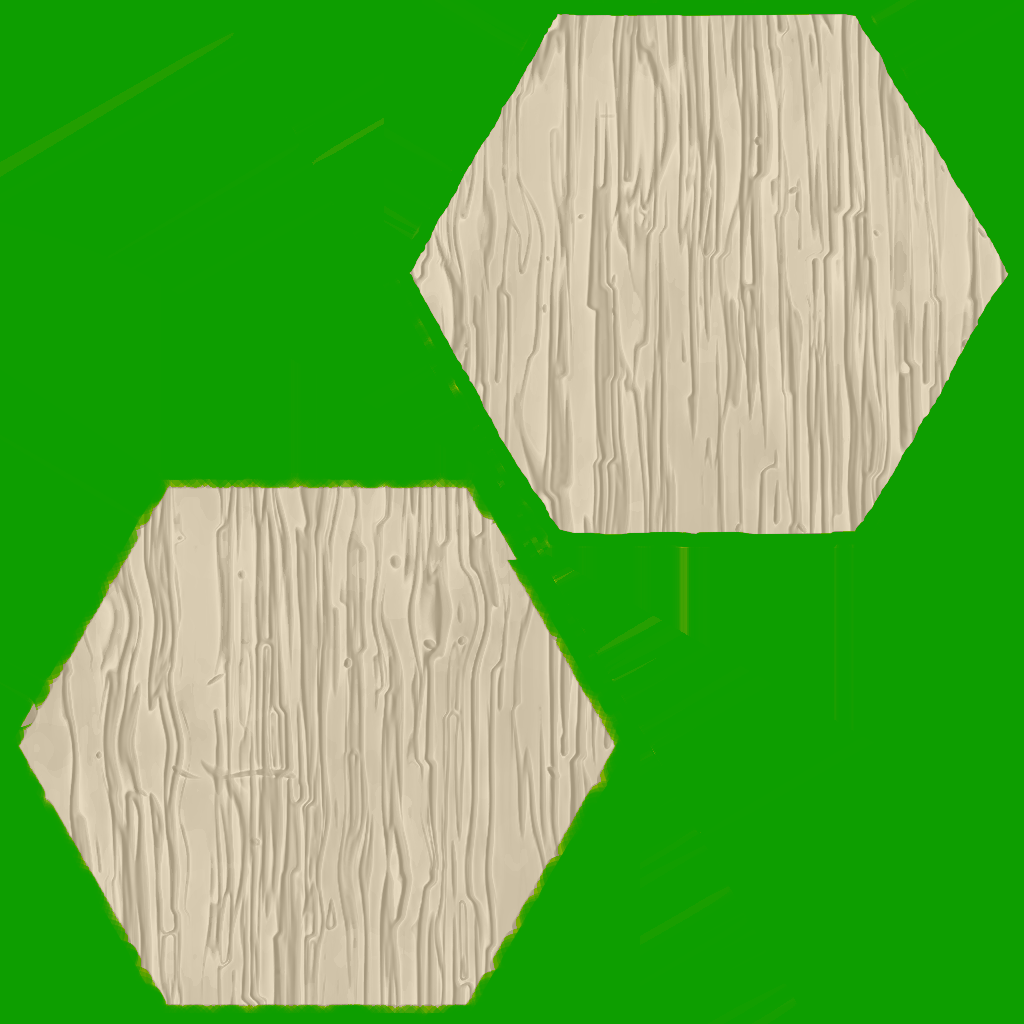
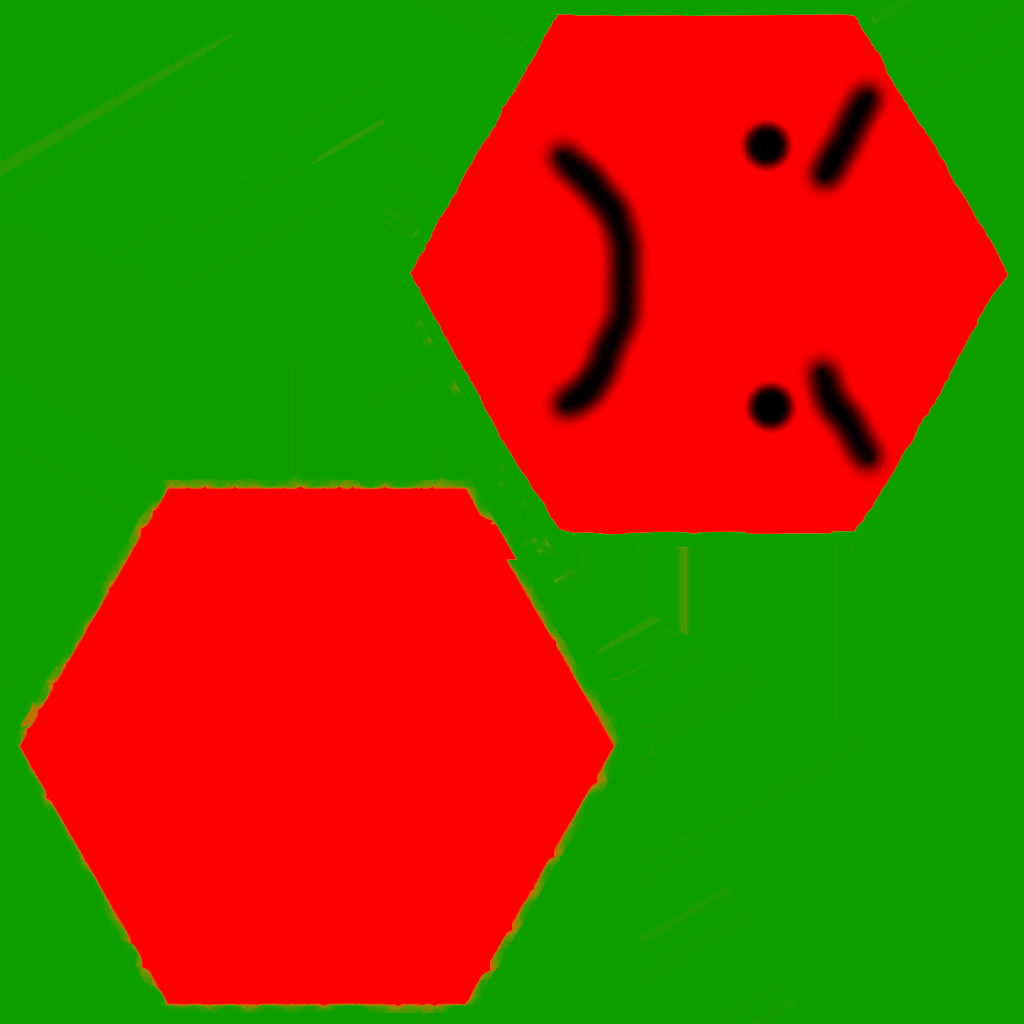
material placeholder du blocker

diff --git a/Assets/Player/Player.cs b/Assets/Player/Player.cs
@@ -51,7 +51,7 @@ public class Player : Grabbable
         
         var hitlist = hits.ToList();
         hitlist.RemoveAll(x=>x.collider.gameObject==visualArm||x.collider.gameObject==grabber.gameObject);
-        Debug.Log(hitlist.Count);
+        //Debug.Log(hitlist.Count);
         if(hitlist.Any(x=>x.collider.gameObject.CompareTag("ArmBlocker")))return;
         
         arm = tempArm;
